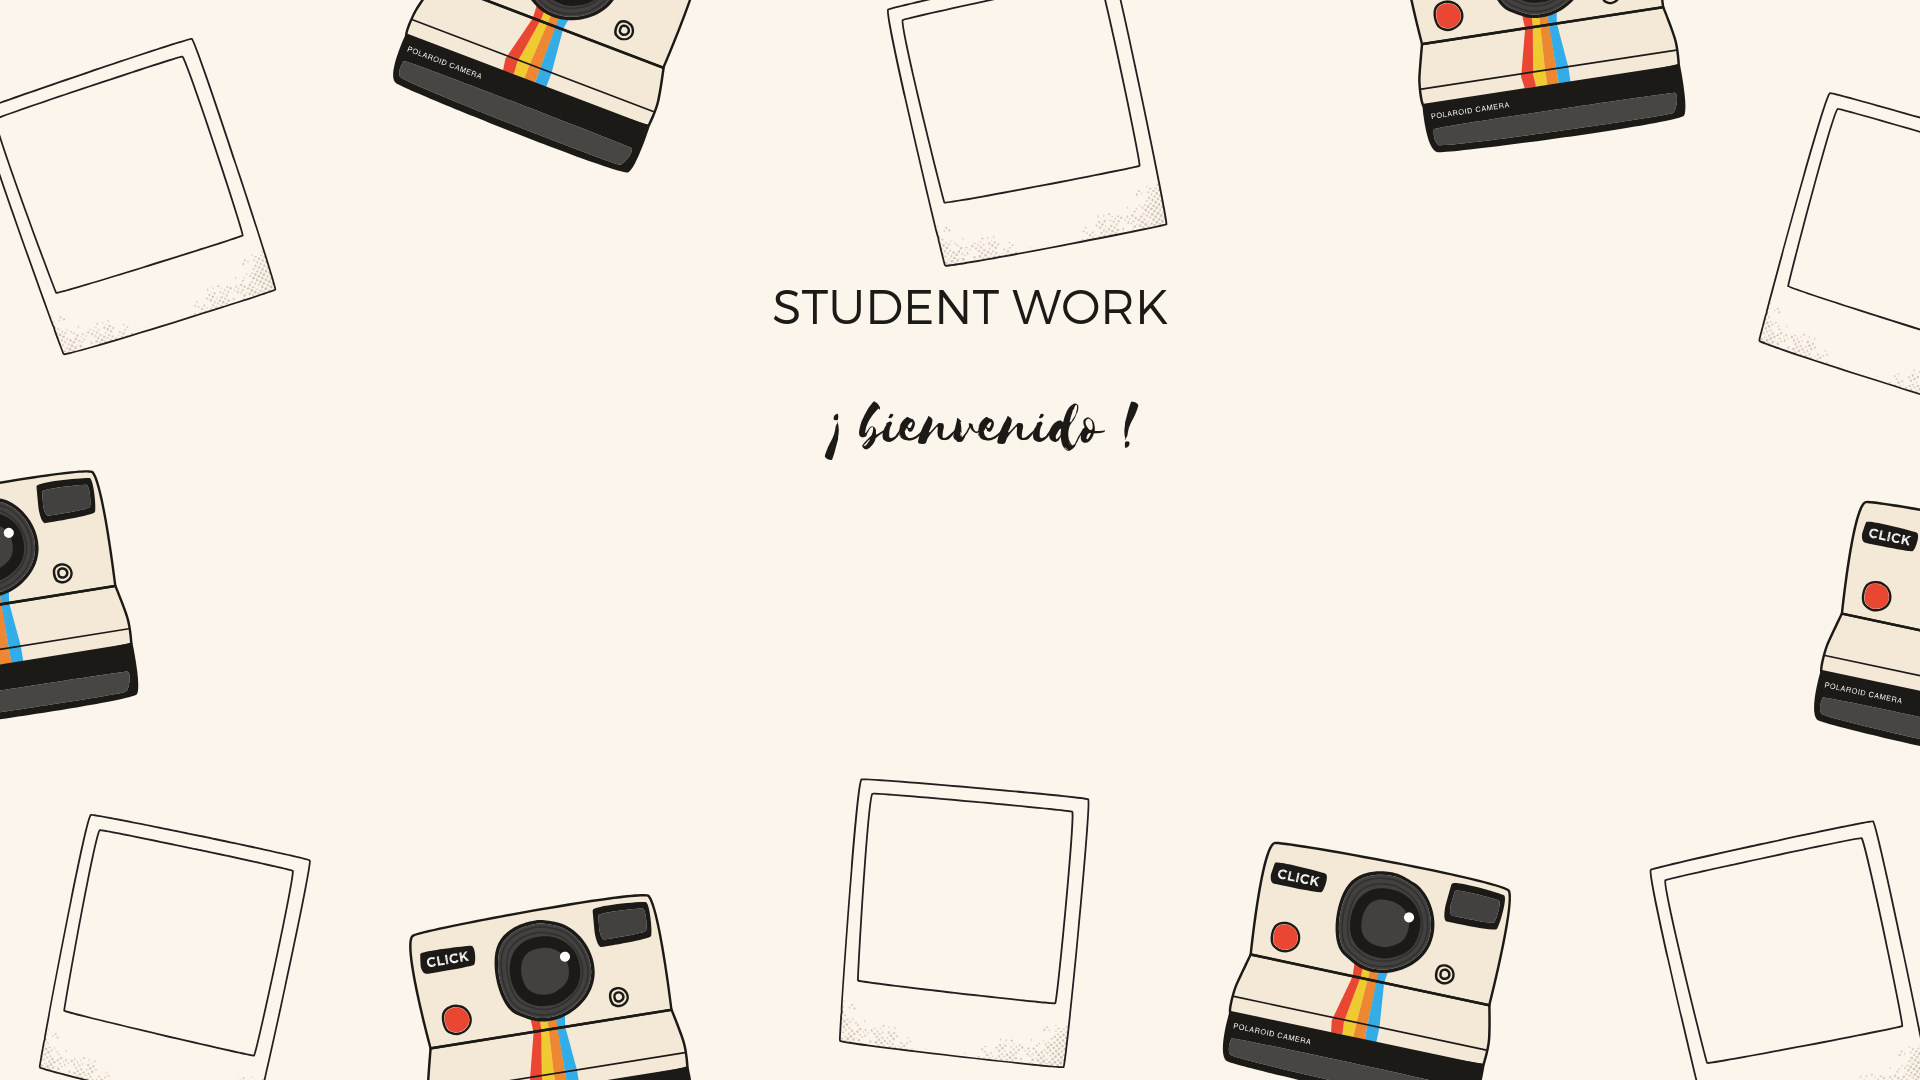
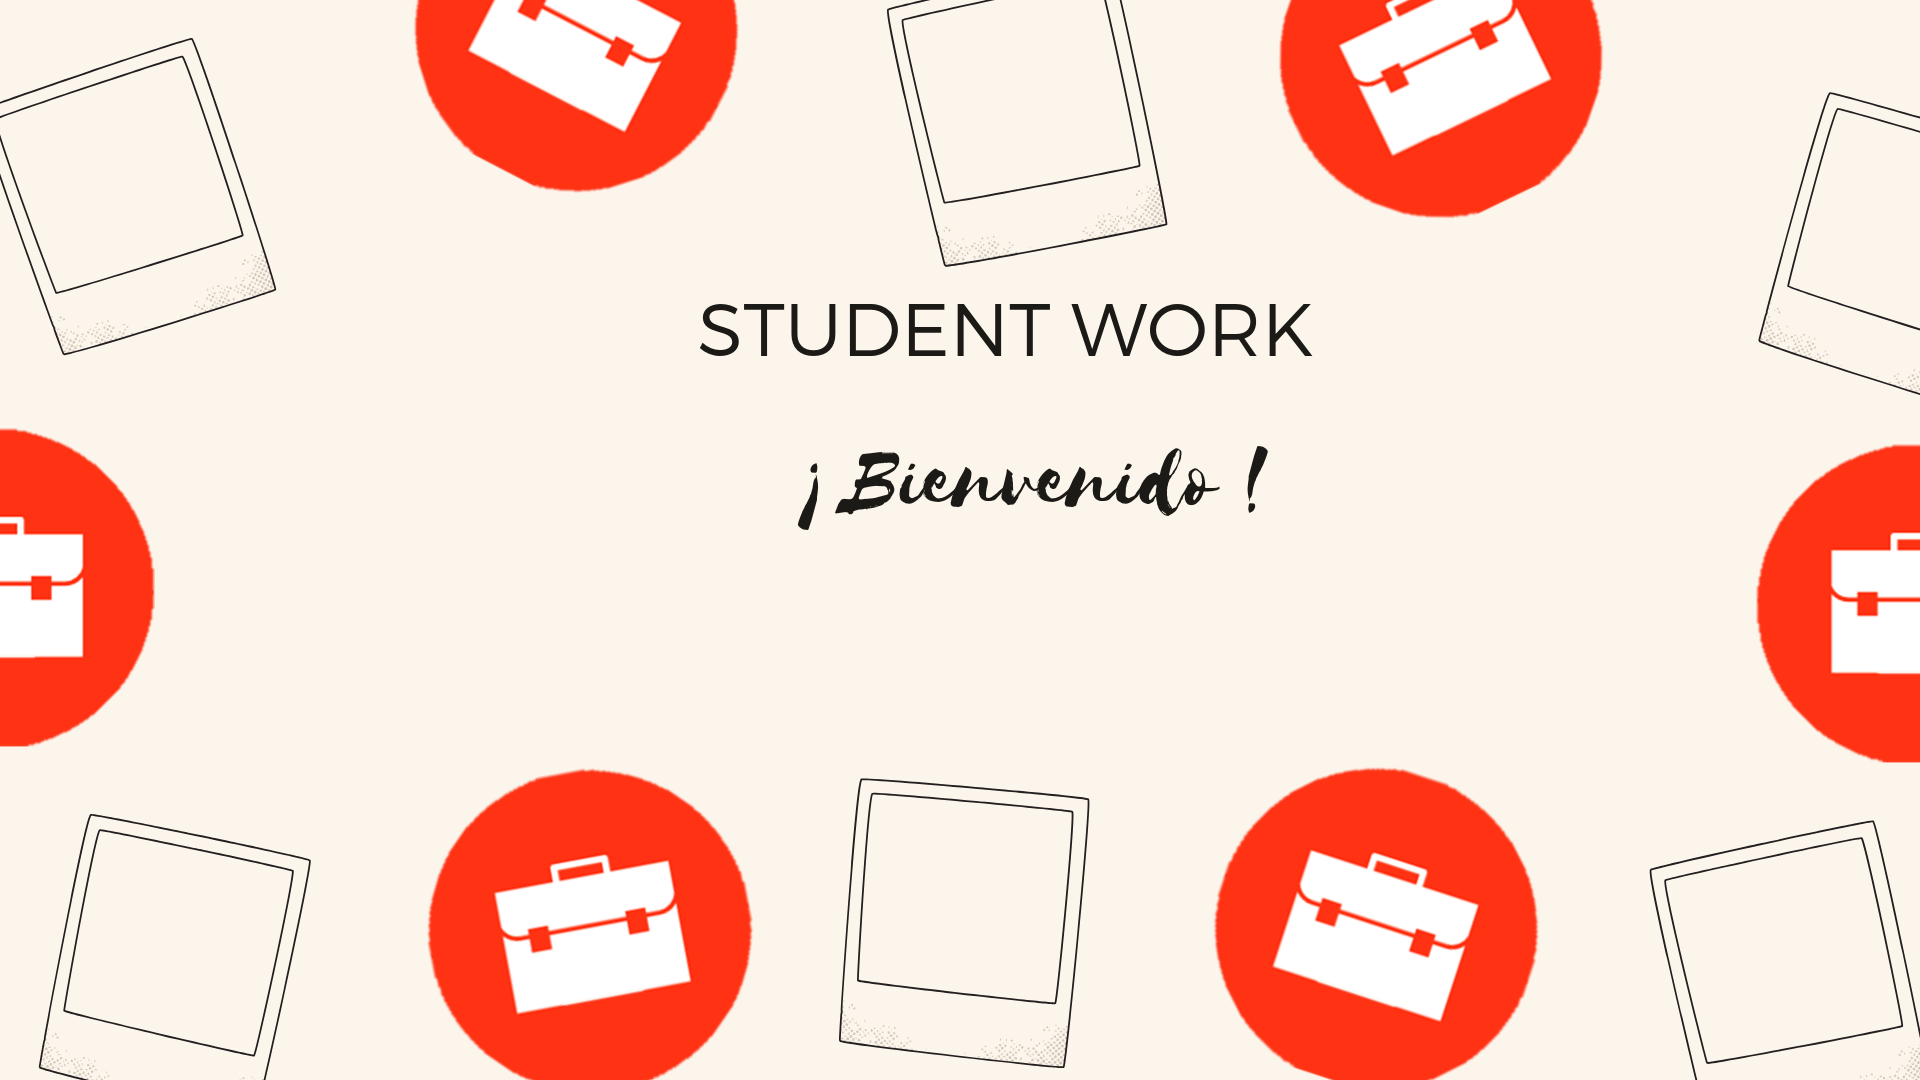
the background of the view is modified and the background is changed to the button

diff --git a/src/app/home/home.page.scss b/src/app/home/home.page.scss
@@ -7,30 +7,15 @@
     --padding-top: 30px;
    
     position: absolute;
-    margin:260px;
-    margin-left: 500px;
+    margin:330px;
+    margin-left: 650px;
     text-align: center;
+    --background: green;
     }
 
 
-
-    .boton2 {
-    
-    --padding-bottom: 30px;
-    --padding-end: 30px;
-    --padding-start: 30px;
-    --padding-top: 30px;
-   
-    position: absolute;
-    margin:260px;
-    margin-left: 700px;
-    text-align: center;
-   }
-
-
-
 .bg-image{
-        --background: url('../home/imagenes/fondo.png') no-repeat center center / cover;
+        --background: url('../home/imagenes/fondoK.png') no-repeat center center / cover;
 }
 
 $grid-breakpoints: (

diff --git a/src/app/home/home.page.html b/src/app/home/home.page.html
@@ -12,12 +12,10 @@
   <ion-grid > 
     <ion-col col-sm-4 col-md-4 col-lg-4 col-xl-4>
       <div class=" col-sm-4 col-md-4 col-lg-4 col-xl-4">
-          <ion-button  class="boton1"  color="dark" shape="round" (click)="login()" >Usuario</ion-button>
+          <ion-button  class="boton1"  shape="round" (click)="login()" >Ingresar</ion-button>
       </div>
     </ion-col>
     
-    <ion-col size-sm = "4" col-sm-4 col-md-4 col-lg-4 col-xl-4>
-        <ion-button class="boton2"  color="dark" shape="round" (click)="login()">Empresa</ion-button>
-    </ion-col>
+    
   </ion-grid>
 </ion-content>
